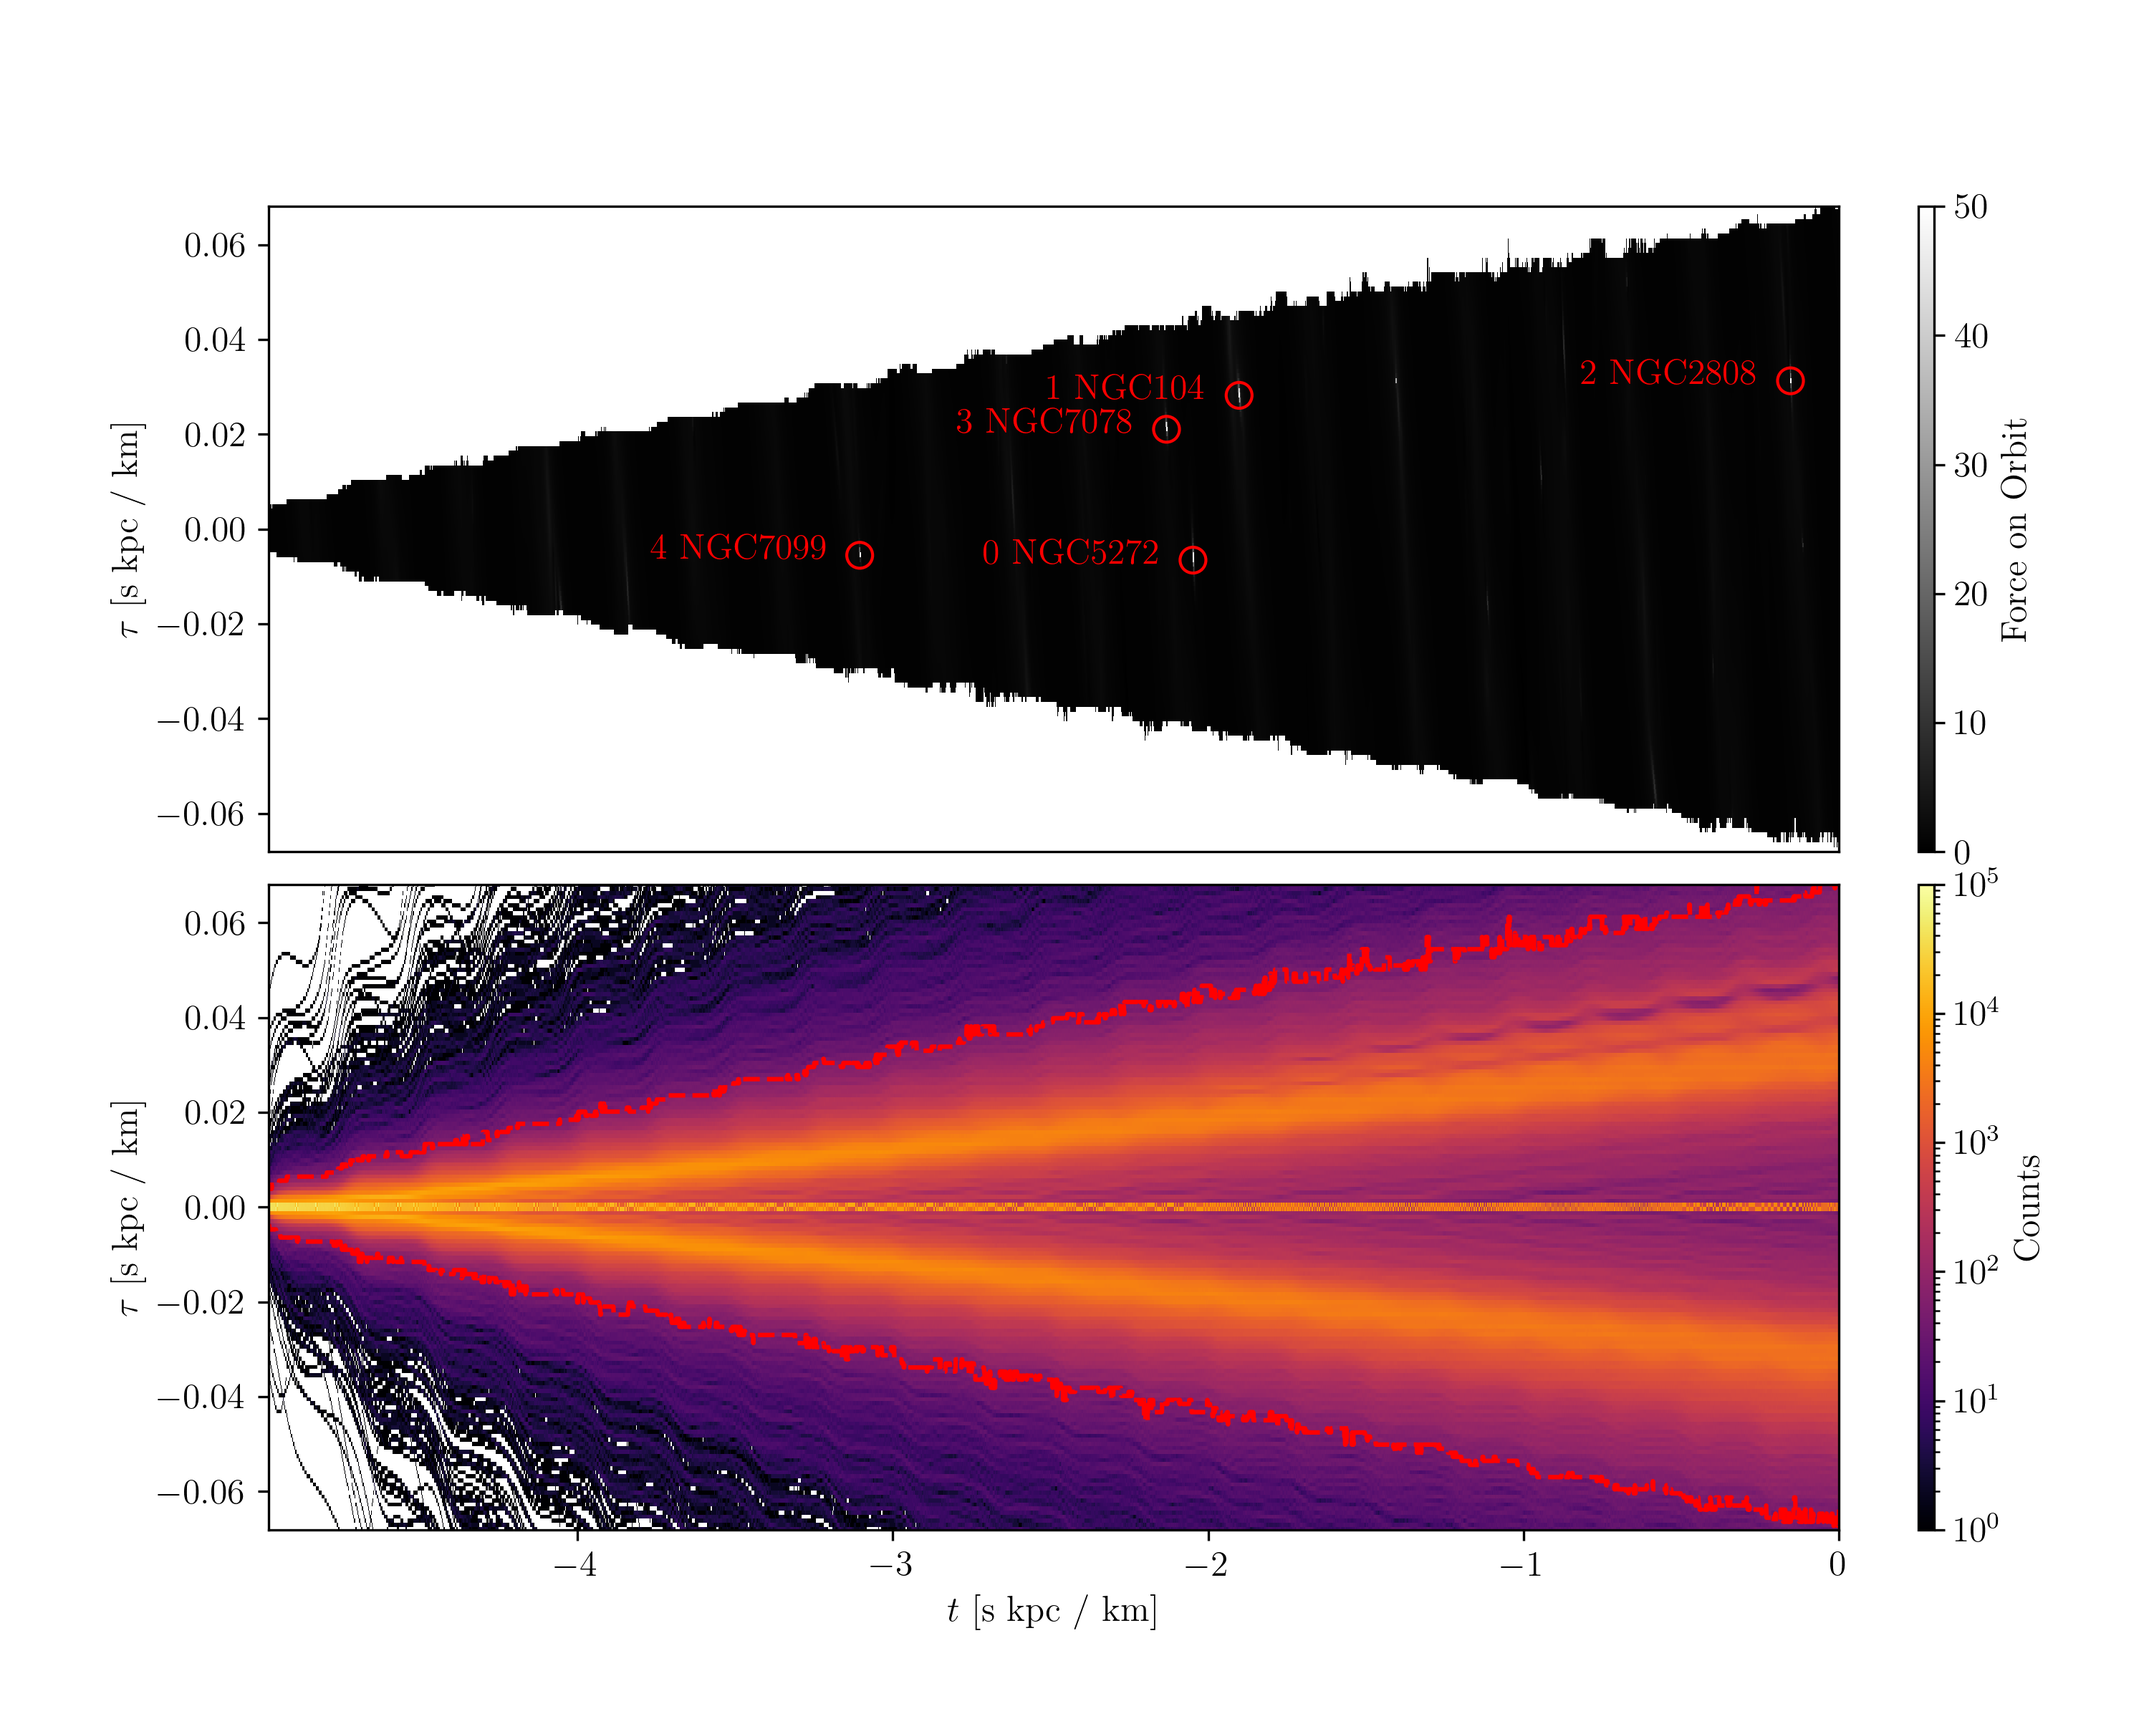
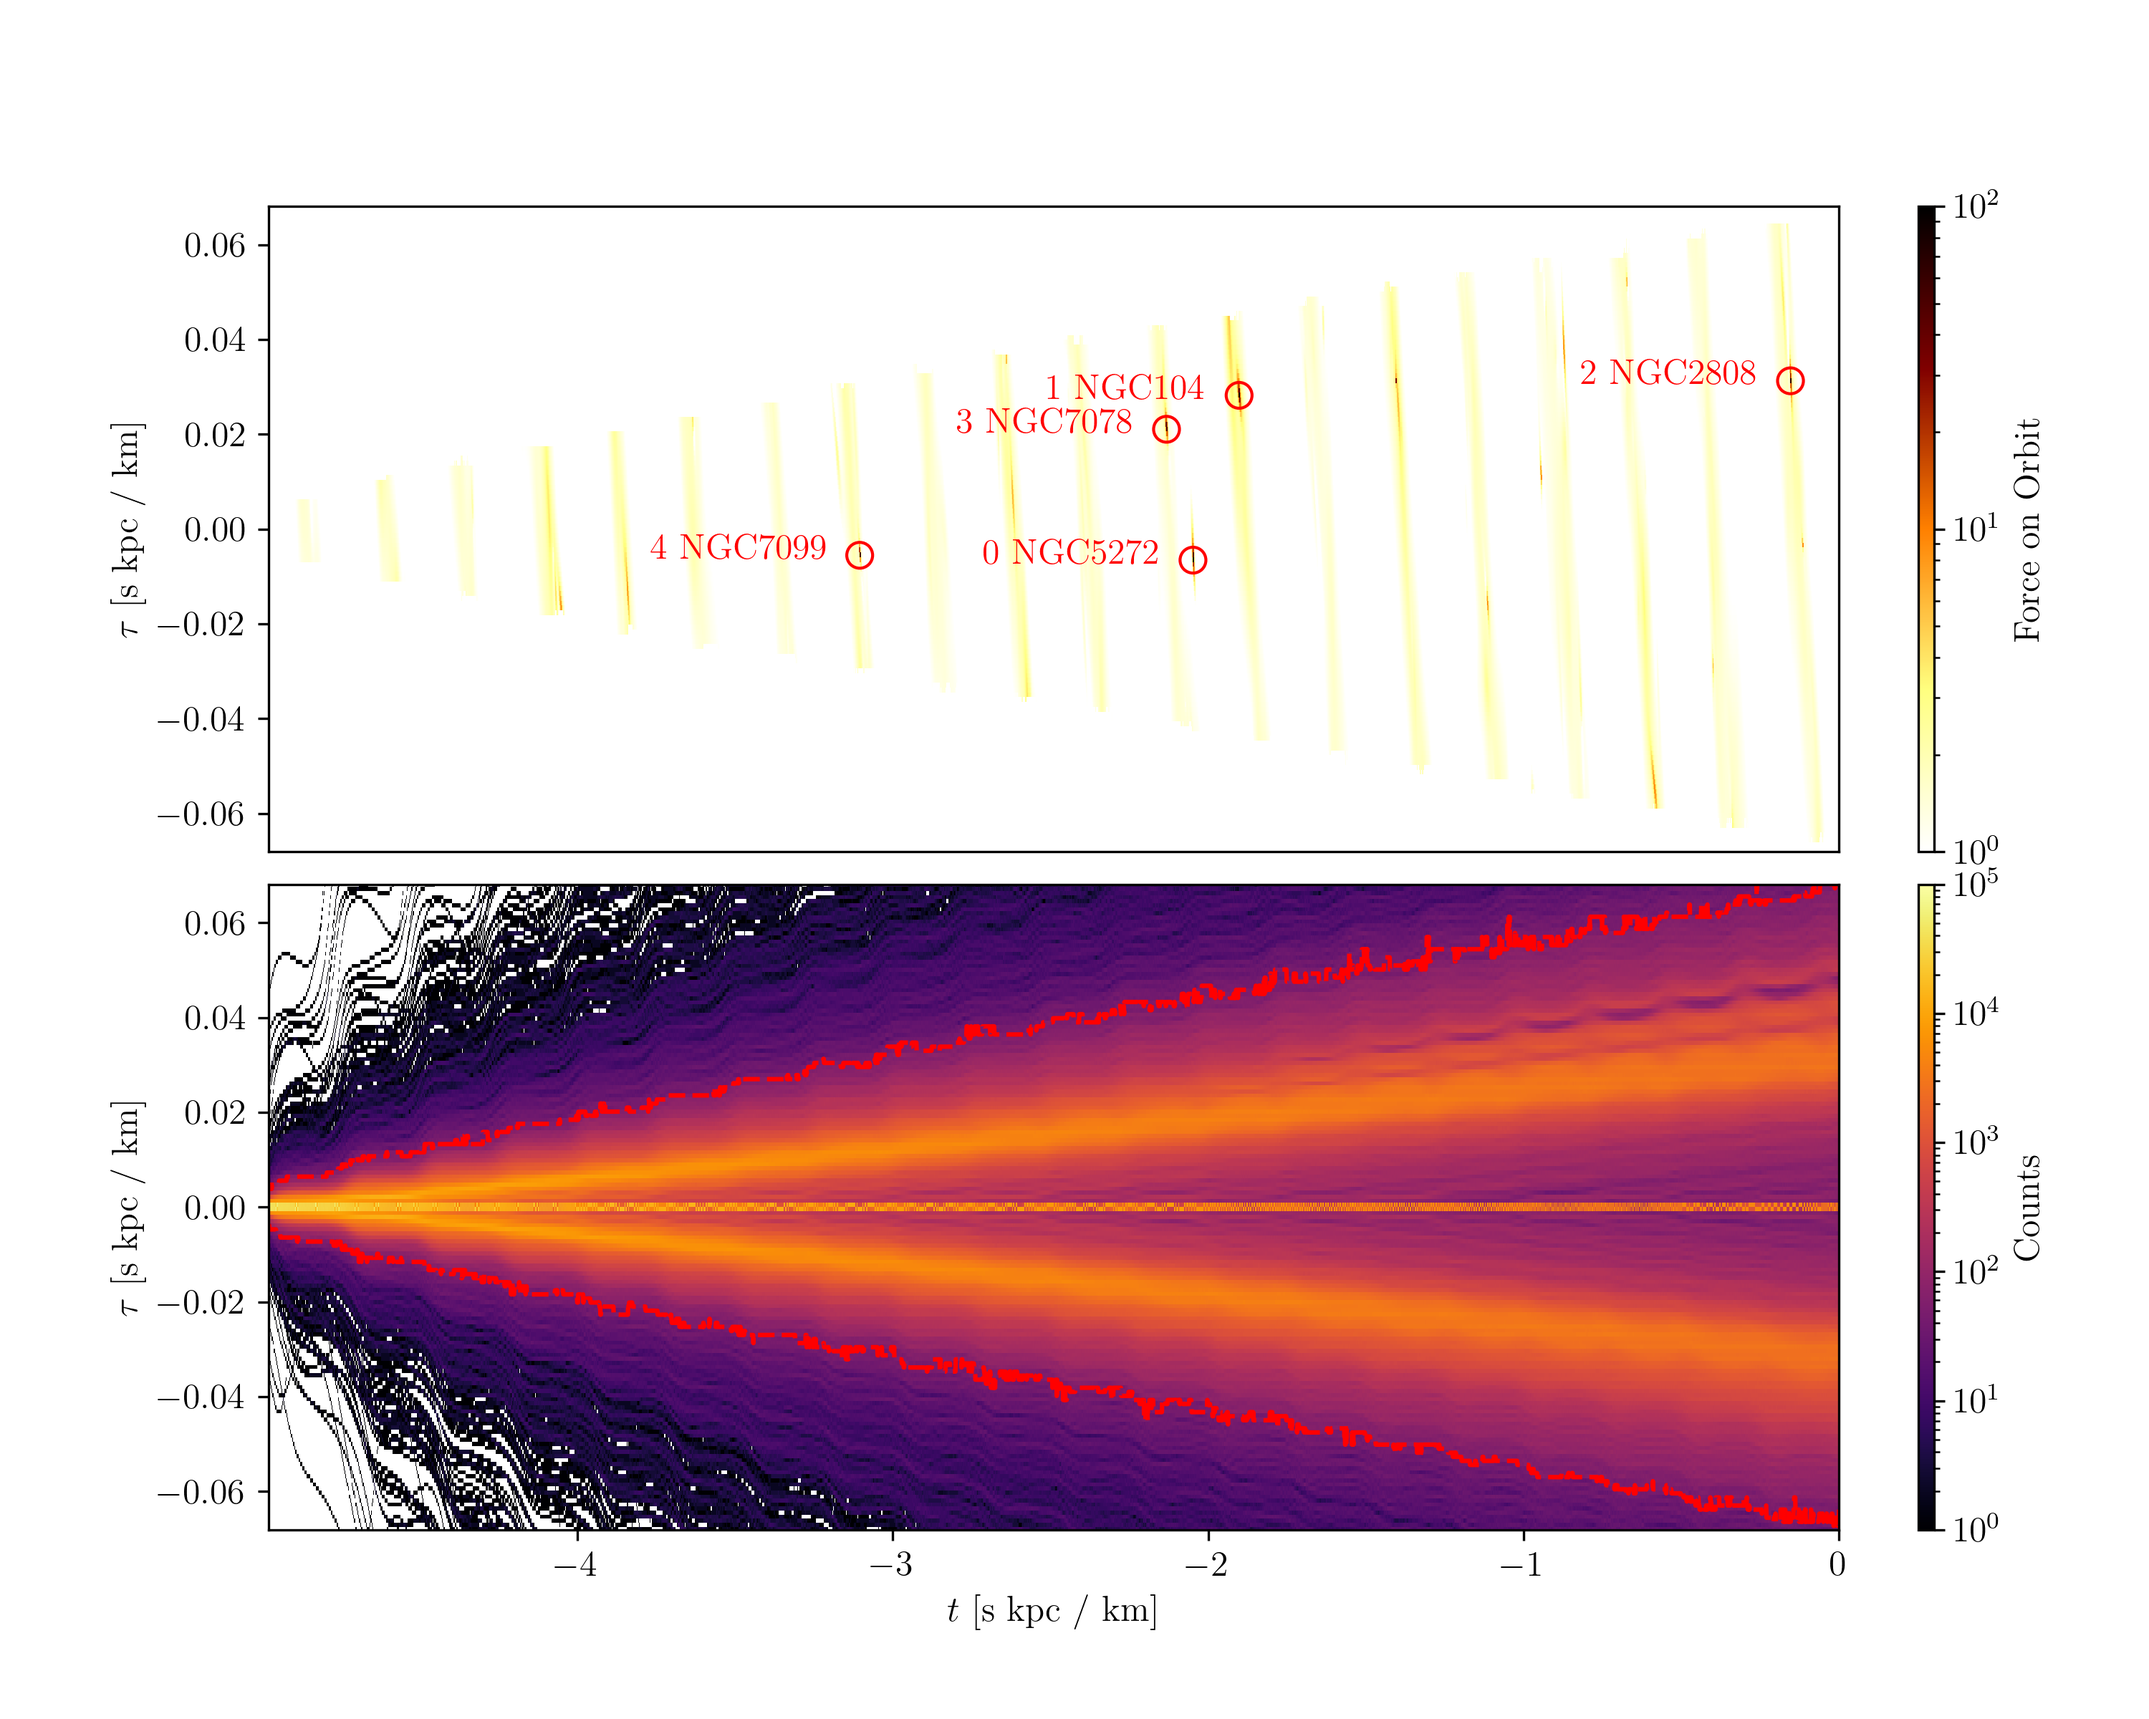
updated plots

Changed region(s): [[0.124, 0.125, 0.961, 0.5], [0.899, 0.0938, 0.93, 0.125]]

diff --git a/paper/main.tex b/paper/main.tex
@@ -250,18 +250,21 @@
     \includegraphics[width=1\linewidth]{mass_size_plane.png}
     \caption{One plot shows the distribution in energy and angular momentum, the next are the inernal proeprties of the clusters, and the last show when the clusters commit their crime, and how many times it happens accross the 50 simulations. }
     \label{fig:mass_size_plane}
-  \end{figure}
-  
+    \end{figure}
   \begin{figure*}
     \centering
     \includegraphics[width=\linewidth]{histogram_impact_time.png}
     \caption{When the impacts occured}
     \label{fig:histogram_impact_time}
-  \end{figure*}
+    \end{figure*}
   
 
 
-  Here, I am typing words
+  \section{Discussion}
+    $10^5-10^6$. Sotto alone averbbero questo effetto? 
+
+
+
 
 
 \bibliographystyle{aa} % or another style like plain, unsrt, etc.
@@ -279,6 +282,58 @@
     \caption{Tail coordinates}
     \label{fig:TailCoordinates}
   \end{figure}
+
+
+
+
+  \section{Gallery of Gaps}
+
+    \begin{figure*}
+      \centering
+      \includegraphics[width=\linewidth]{gallery_of_gaps_monte-carlo-000.png}
+      \includegraphics[width=\linewidth]{gallery_of_gaps_monte-carlo-001.png}
+      \includegraphics[width=\linewidth]{gallery_of_gaps_monte-carlo-002.png}
+      \includegraphics[width=\linewidth]{gallery_of_gaps_monte-carlo-003.png}
+      \includegraphics[width=\linewidth]{gallery_of_gaps_monte-carlo-004.png}
+      \caption{Gap Gallery}
+      \label{fig:TailCoordinates}
+    \end{figure*}    
+
+
+    \begin{figure*}
+      \centering
+      \includegraphics[width=\linewidth]{gallery_of_gaps_monte-carlo-005.png}
+      \includegraphics[width=\linewidth]{gallery_of_gaps_monte-carlo-006.png}
+      \includegraphics[width=\linewidth]{gallery_of_gaps_monte-carlo-007.png}
+      \includegraphics[width=\linewidth]{gallery_of_gaps_monte-carlo-008.png}
+      \includegraphics[width=\linewidth]{gallery_of_gaps_monte-carlo-009.png}
+      \caption{Gap Gallery}
+      \label{fig:TailCoordinates}
+    \end{figure*}        
+
+
+    \begin{figure*}
+      \centering
+      \includegraphics[width=\linewidth]{gallery_of_gaps_monte-carlo-010.png}
+      \includegraphics[width=\linewidth]{gallery_of_gaps_monte-carlo-011.png}
+      \includegraphics[width=\linewidth]{gallery_of_gaps_monte-carlo-012.png}
+      \includegraphics[width=\linewidth]{gallery_of_gaps_monte-carlo-013.png}
+      \includegraphics[width=\linewidth]{gallery_of_gaps_monte-carlo-014.png}
+      \caption{Gap Gallery}
+      \label{fig:TailCoordinates}
+    \end{figure*}        
+
+
+    \begin{figure*}
+      \centering
+      \includegraphics[width=\linewidth]{gallery_of_gaps_monte-carlo-015.png}
+      \includegraphics[width=\linewidth]{gallery_of_gaps_monte-carlo-016.png}
+      \includegraphics[width=\linewidth]{gallery_of_gaps_monte-carlo-017.png}
+      \includegraphics[width=\linewidth]{gallery_of_gaps_monte-carlo-018.png}
+      \includegraphics[width=\linewidth]{gallery_of_gaps_monte-carlo-019.png}
+      \caption{Gap Gallery}
+      \label{fig:TailCoordinates}
+    \end{figure*}        
 
 
 
